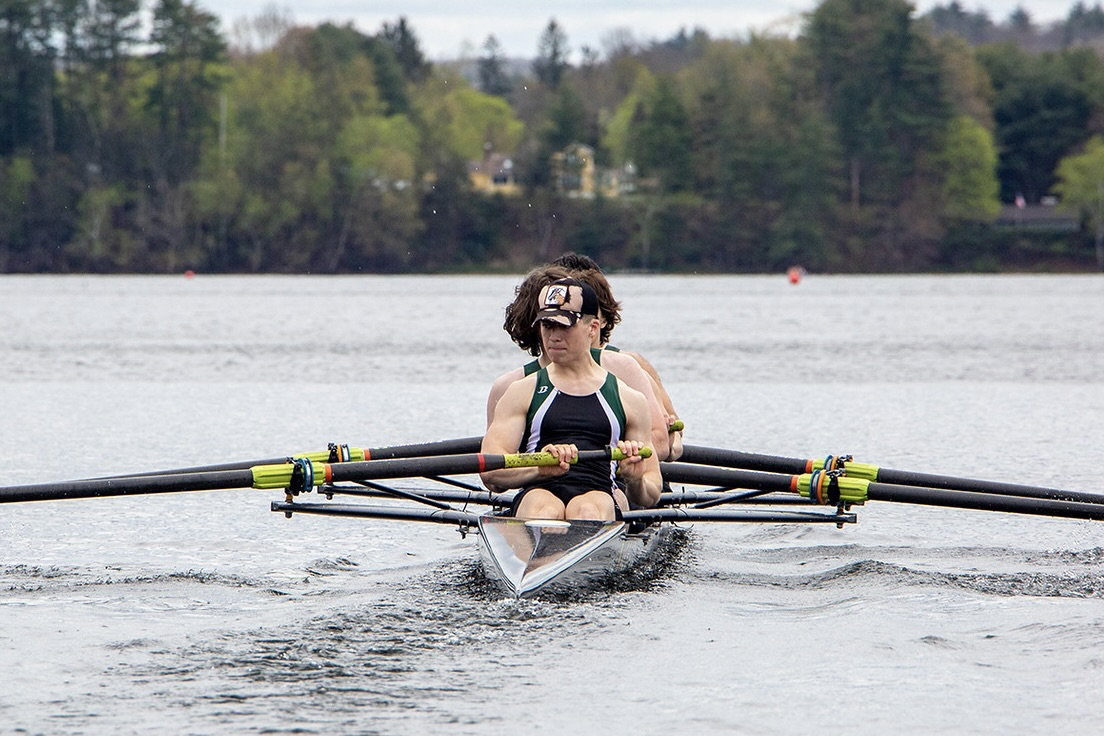
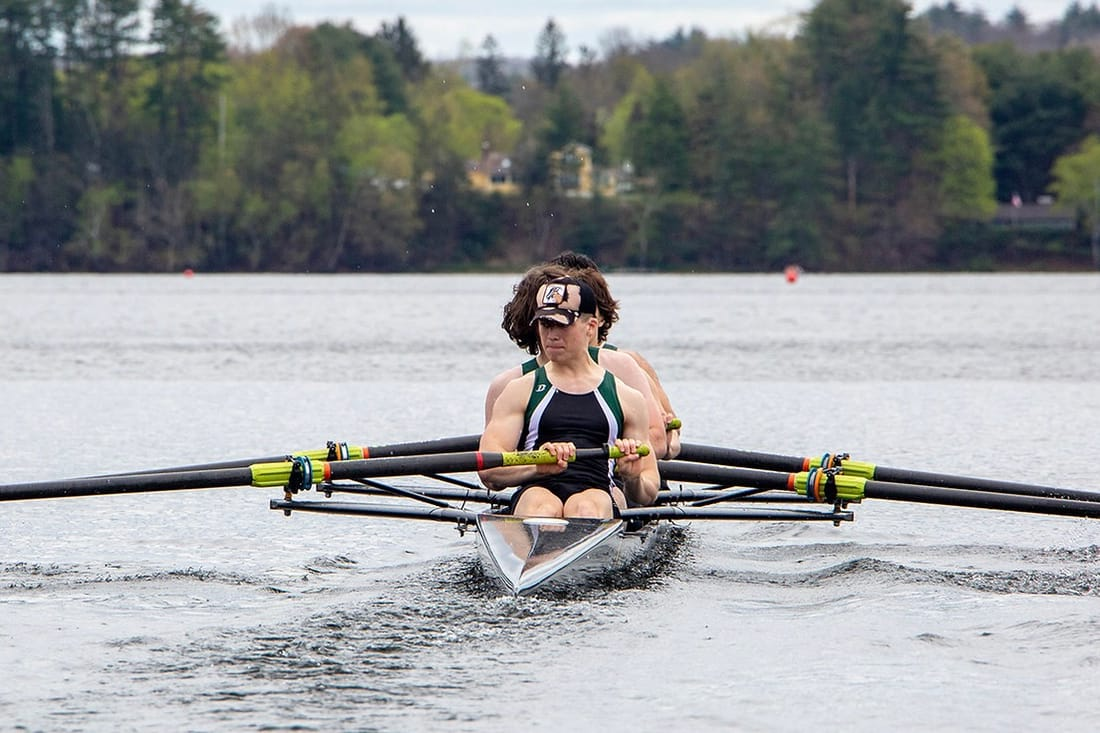
Optimize images: resize, recompress, serve WebP
Image payload dropped from ~36MB to ~2.5MB.

- Resized every oversized asset to its display size and recompressed in
  place (same filenames, so CSS bg/og:image/JS refs keep working):
  edited-photo 11MB->231KB, NEWCRISPYMINT 1.8MB->539KB, SINGLECRISPYMINT
  1MB->172KB, Ocean 1.9MB->342KB, MINT1/MINT2 1.8MB->~60KB, logo 66KB->3KB
- Generated WebP siblings and wrapped content images in <picture> with the
  resized original as fallback (homepage hero/what/story/flavor, product
  carousel). picture{display:contents} keeps layout identical.
- Hero CSS background uses image-set(webp, jpg) with a plain-url fallback.
- Renamed the two ugly ElevenLabs carousel renders (10MB + 4.7MB) to
  crispy-product-2/3 as ~90KB webp/jpg and deleted the originals.
- URL-encoded spaces in webp srcset values (srcset is whitespace-delimited;
  unencoded spaces silently fell back to the larger PNG/JPG).

Verified in-browser: hero + all content images and all 3 carousel slides
resolve to WebP; carousel/cards effect and layouts render correctly.

diff --git a/index.html b/index.html
@@ -53,7 +53,10 @@
         </div>
         <div class="hero-image-wrap">
             <a href="crispy-mint.html" id="product-link">
-                <img src="SINGLECRISPYMINT.png" alt="Crispy Mint Hydration Pouch" class="hero-image" fetchpriority="high" decoding="async">
+                <picture>
+                    <source srcset="SINGLECRISPYMINT.webp" type="image/webp">
+                    <img src="SINGLECRISPYMINT.png" alt="Crispy Mint Hydration Pouch" class="hero-image" fetchpriority="high" decoding="async">
+                </picture>
             </a>
         </div>
     </section>
@@ -77,8 +80,14 @@
                     <p class="section-sub reveal-up">ZELYTE is the first Active Hydration Pouch — worn in your upper lip, delivering electrolytes and caffeine through your gums. No liquid. No hands. No stopping.</p>
                 </div>
                 <div class="what-images-col reveal-right">
-                    <img src="edited-photo.png" alt="ZELYTE Crispy Mint tins" class="what-tins-img" loading="lazy" decoding="async">
-                    <img src="Adobe Express - file (2).png" alt="ZELYTE hydration pouch" class="what-pouch-img" loading="lazy" decoding="async">
+                    <picture>
+                        <source srcset="edited-photo.webp" type="image/webp">
+                        <img src="edited-photo.png" alt="ZELYTE Crispy Mint tins" class="what-tins-img" loading="lazy" decoding="async">
+                    </picture>
+                    <picture>
+                        <source srcset="Adobe%20Express%20-%20file%20(2).webp" type="image/webp">
+                        <img src="Adobe Express - file (2).png" alt="ZELYTE hydration pouch" class="what-pouch-img" loading="lazy" decoding="async">
+                    </picture>
                 </div>
             </div>
             <div class="what-cards">
@@ -123,7 +132,10 @@
             <!-- RIGHT: Visual -->
             <div class="story-visual reveal-right">
                 <div class="story-img-wrap">
-                    <img src="Rowing vs Lenox (21)-X3.jpg" alt="Hudson Murray rowing vs Lenox" loading="lazy" decoding="async">
+                    <picture>
+                        <source srcset="Rowing%20vs%20Lenox%20(21)-X3.webp" type="image/webp">
+                        <img src="Rowing vs Lenox (21)-X3.jpg" alt="Hudson Murray rowing vs Lenox" loading="lazy" decoding="async">
+                    </picture>
                 </div>
             </div>
 
@@ -266,7 +278,10 @@
             <div class="flavors-grid flavors-grid--single">
                 <a href="crispy-mint.html" class="flavor-card flavor-card--rect reveal-up">
                     <div class="flavor-img-wrap">
-                        <img src="NEWCRISPYMINT.png" alt="Crispy Mint" class="flavor-img" loading="lazy" decoding="async">
+                        <picture>
+                            <source srcset="NEWCRISPYMINT.webp" type="image/webp">
+                            <img src="NEWCRISPYMINT.png" alt="Crispy Mint" class="flavor-img" loading="lazy" decoding="async">
+                        </picture>
                     </div>
                     <div class="flavor-card-info">
                         <h3>Crispy Mint</h3>

diff --git a/crispy-mint.html b/crispy-mint.html
@@ -189,6 +189,7 @@
             object-position: center;
             display: block;
         }
+        picture { display: contents; }
 
         .swiper-nav-row {
             display: flex;
@@ -1491,9 +1492,9 @@
             <div class="product-img-col">
                 <div class="swiper product-swiper" aria-label="Product images" aria-roledescription="carousel">
                     <div class="swiper-wrapper" aria-live="off">
-                        <div class="swiper-slide" aria-roledescription="slide" aria-label="Image 1 of 3"><img src="NEWCRISPYMINT.png" alt="Crispy Mint Tin" fetchpriority="high" decoding="async"></div>
-                        <div class="swiper-slide" aria-roledescription="slide" aria-label="Image 2 of 3"><img src="ElevenLabs_image_topaz-image-upscale_2026-06-02T13_56_08.png" alt="Crispy Mint Product" loading="lazy" decoding="async"></div>
-                        <div class="swiper-slide" aria-roledescription="slide" aria-label="Image 3 of 3"><img src="ElevenLabs_image_nano-banana-2_recreate the..._2026-06-02T14_10_38.png" alt="Crispy Mint Product" loading="lazy" decoding="async"></div>
+                        <div class="swiper-slide" aria-roledescription="slide" aria-label="Image 1 of 3"><picture><source srcset="NEWCRISPYMINT.webp" type="image/webp"><img src="NEWCRISPYMINT.png" alt="Crispy Mint Tin" fetchpriority="high" decoding="async"></picture></div>
+                        <div class="swiper-slide" aria-roledescription="slide" aria-label="Image 2 of 3"><picture><source srcset="crispy-product-2.webp" type="image/webp"><img src="crispy-product-2.jpg" alt="Crispy Mint Product" loading="lazy" decoding="async"></picture></div>
+                        <div class="swiper-slide" aria-roledescription="slide" aria-label="Image 3 of 3"><picture><source srcset="crispy-product-3.webp" type="image/webp"><img src="crispy-product-3.jpg" alt="Crispy Mint Product" loading="lazy" decoding="async"></picture></div>
                     </div>
                 </div>
                 <div class="swiper-nav-row">

diff --git a/index.css b/index.css
@@ -165,6 +165,9 @@ main {
     background: rgba(255, 255, 255, 0.10);
 }
 
+/* <picture> wrappers must not affect grid/flex layout — img stays the box */
+picture { display: contents; }
+
 .shop-button {
     padding: 8px 16px;
     background: linear-gradient(160deg, #4f9cf9 0%, #1a73e8 50%, #1252c4 100%);
@@ -619,6 +622,8 @@ main {
 .section-how {
     background-color: #001e4a;
     background-image: linear-gradient(rgba(0, 25, 60, 0.48), rgba(0, 25, 60, 0.48)), url('Ocean.jpg');
+    background-image: linear-gradient(rgba(0, 25, 60, 0.48), rgba(0, 25, 60, 0.48)), -webkit-image-set(url('Ocean.webp') type('image/webp'), url('Ocean.jpg') type('image/jpeg'));
+    background-image: linear-gradient(rgba(0, 25, 60, 0.48), rgba(0, 25, 60, 0.48)), image-set(url('Ocean.webp') type('image/webp'), url('Ocean.jpg') type('image/jpeg'));
     background-size: auto, cover;
     background-position: center, center;
     background-repeat: no-repeat, no-repeat;
